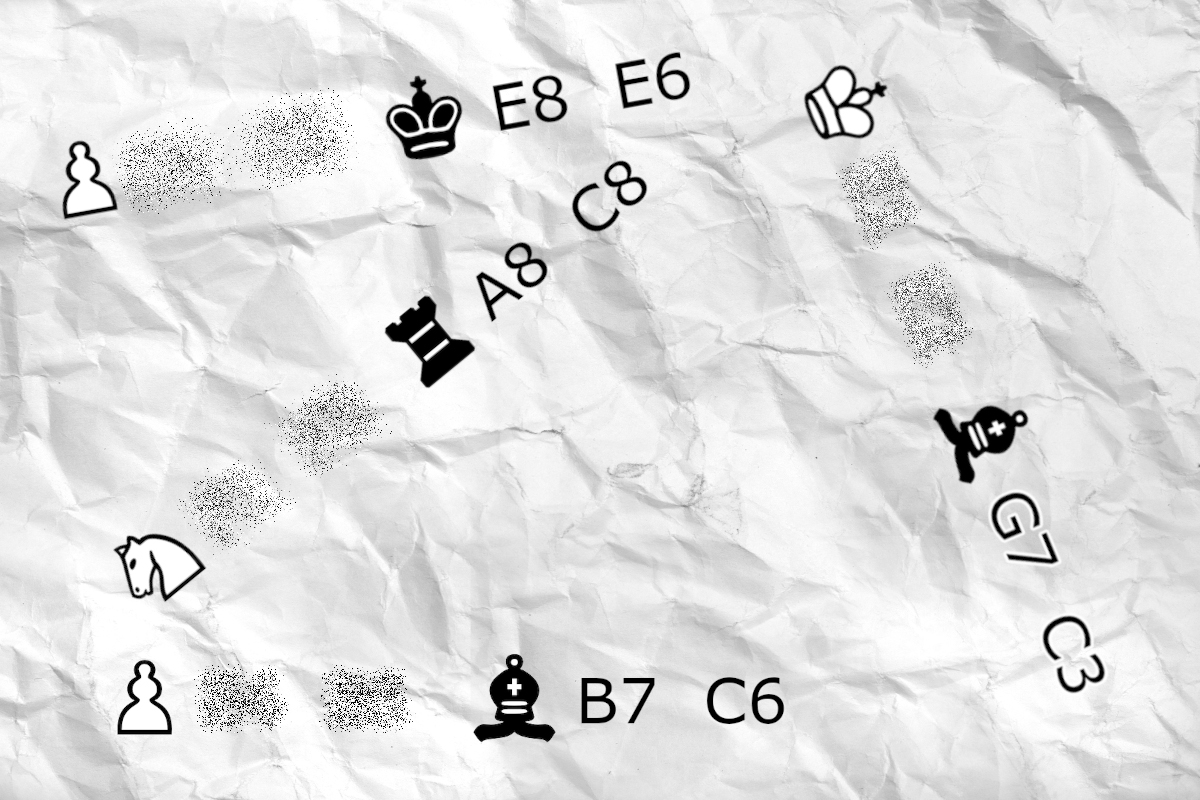
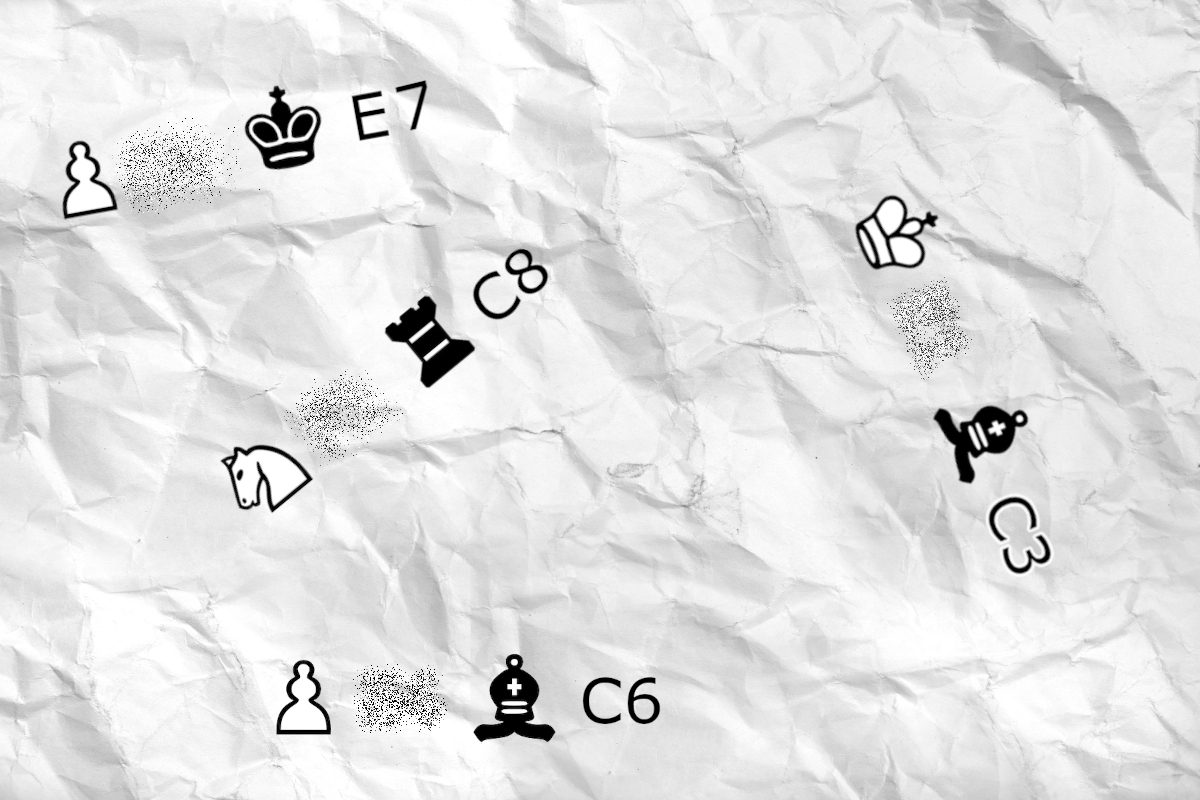
show movement lists - wip

diff --git a/src/components/puzzle-2/Chess-Movements-Confirm.spec.js b/src/components/puzzle-2/Chess-Movements-Confirm.spec.js
@@ -6,45 +6,69 @@ import { INITIAL_PIECES_BUILDER, PIECES } from './chess-constants';
 
 const THE_CELL = (row, col) => `[data-test-id=cell-${row}-${col}]`;
 
-const THE_CELL_ORIGIN = THE_CELL(0, 3);
-const THE_CELL_TARGET = THE_CELL(2, 3);
-const ANOTHER_CELL_ORIGIN = THE_CELL(0,0);
+const THE_CELL_ORIGIN = THE_CELL(0, 0);
+const THE_CELL_TARGET = THE_CELL(0, 2);
+const ANOTHER_CELL_ORIGIN = THE_CELL(0,3);
+const LOCATION_ORIGIN = '0-0';
+const LOCATION_TARGET = '0-2';
 
 const MOVEMENT_CONFIRM_ALERT = '[data-test-id=movement-confirm-alert]';
 const MOVEMENT_CONFIRM_BTN_NO = '[data-test-id=movement-confirm-alert-btn-no]';
 const MOVEMENT_CONFIRM_BTN_YES = '[data-test-id=movement-confirm-alert-btn-yes]';
 
-const THE_MOVED_PIECE = 'piece-dn';
+const THE_MOVED_PIECE = PIECES.BLACK_TOWER;
+const THE_MOVED_PIECE_CLASS = `piece-${THE_MOVED_PIECE}`;
+
+const MOVEMENT_LIST_EACH = '[data-test-id=chess-movement]';
 
 const clickButton = async (component, selector) => {
   component.find(selector).trigger('click');
   await component.vm.$nextTick();
 }
-describe('Chess Movements can be confirmed', () => {
-  it('does not show movement-confirm-alert when it starts', () => {
-    givenPlayerNumber(2);
-    givenFirestore({
-      '/': { turn: 2 },
-      '/puzzle-status/puzzle-2/pieces-location/current': INITIAL_PIECES_BUILDER.build()
+describe('Chess Movements are executed', () => {
+  describe('when initialized', () => {
+    it('does not show movement-confirm-alert when it starts', () => {
+      const chess = mount(Chess);
+
+      expect(chess.find(MOVEMENT_CONFIRM_ALERT).exists()).toBeFalsy();
     });
+    it('does not show any movement in the movement list', () => {
+      const chess = mount(Chess);
 
-    const chess = mount(Chess);
-
-    expect(chess.find(MOVEMENT_CONFIRM_ALERT).exists()).toBeFalsy();
+      expect(chess.findAll(MOVEMENT_LIST_EACH).length).toBe(0);
+    });
   });
 
-  it('shows the confirm movement alert when a movement is executed', async () => {
-    givenPlayerNumber(2);
-    givenFirestore({
-      '/': { turn: 2 },
-      '/puzzle-status/puzzle-2/pieces-location/current': INITIAL_PIECES_BUILDER.build()
+  describe('when a movement is executed', () => {
+    it('shows the confirm movement alert when a movement is executed', async () => {
+      givenPlayerNumber(2);
+      givenFirestore({
+        '/': { turn: 2 },
+        '/puzzle-status/puzzle-2/pieces-location/current': INITIAL_PIECES_BUILDER.build()
+      });
+      const chess = mount(Chess);
+      await clickButton(chess, THE_CELL_ORIGIN);
+
+      await clickButton(chess, THE_CELL_TARGET);
+
+      expect(chess.find(MOVEMENT_CONFIRM_ALERT).exists()).toBeTruthy();
     });
-    const chess = mount(Chess);
-    await clickButton(chess, THE_CELL_ORIGIN);
+    it('shows the movement in the movement list', async () => {
+      givenPlayerNumber(2);
+      givenFirestore({
+        '/': { turn: 2 },
+        '/puzzle-status/puzzle-2/pieces-location/current': INITIAL_PIECES_BUILDER.build()
+      });
+      const chess = mount(Chess);
+      await clickButton(chess, THE_CELL_ORIGIN);
 
-    await clickButton(chess, THE_CELL_TARGET);
+      await clickButton(chess, THE_CELL_TARGET);
 
-    expect(chess.find(MOVEMENT_CONFIRM_ALERT).exists()).toBeTruthy();
+      expect(chess.findAll(MOVEMENT_LIST_EACH).length).toBe(1);
+      expect(chess.find('[data-test-id=chess-movement-0-left-piece]').exists()).toBeTruthy();
+      expect(chess.find('[data-test-id=chess-movement-0-left-piece]').classes().indexOf(THE_MOVED_PIECE_CLASS)).toBeGreaterThanOrEqual(0);
+      expect(chess.find('[data-test-id=chess-movement-0-left-text]').text()).toBe('A8 C8');
+    });
   });
 
   describe('when NO is selected', () => {
@@ -69,8 +93,12 @@ describe('Chess Movements can be confirmed', () => {
     });
 
     it('undos the movement', async () => {
-      expect(chess.find(THE_CELL_ORIGIN).classes().indexOf(THE_MOVED_PIECE)).toBeGreaterThanOrEqual(0);
-      expect(chess.find(THE_CELL_TARGET).classes().indexOf(THE_MOVED_PIECE)).toBe(-1);
+      expect(chess.find(THE_CELL_ORIGIN).classes().indexOf(THE_MOVED_PIECE_CLASS)).toBeGreaterThanOrEqual(0);
+      expect(chess.find(THE_CELL_TARGET).classes().indexOf(THE_MOVED_PIECE_CLASS)).toBe(-1);
+    });
+
+    it('removes the movement from the list', async () => {
+      expect(chess.findAll(MOVEMENT_LIST_EACH).length).toBe(0);
     });
 
     it('get ready for the next movement', async () => {
@@ -103,13 +131,13 @@ describe('Chess Movements can be confirmed', () => {
     });
 
     it('sets the movement', async () => {
-      expect(chess.find(THE_CELL_TARGET).classes().indexOf(THE_MOVED_PIECE)).toBeGreaterThanOrEqual(0);
-      expect(chess.find(THE_CELL_ORIGIN).classes().indexOf(THE_MOVED_PIECE)).toBe(-1);
+      expect(chess.find(THE_CELL_TARGET).classes().indexOf(THE_MOVED_PIECE_CLASS)).toBeGreaterThanOrEqual(0);
+      expect(chess.find(THE_CELL_ORIGIN).classes().indexOf(THE_MOVED_PIECE_CLASS)).toBe(-1);
     });
 
     it('persists the movement', async () => {
-      expect(getUpdatedField(chess, 'piecesLocation', '0-3')).toBeNull();
-      expect(getUpdatedField(chess, 'piecesLocation', '2-3')).toBe(PIECES.BLACK_QUEEN);
+      expect(getUpdatedField(chess, 'piecesLocation', LOCATION_ORIGIN)).toBeNull();
+      expect(getUpdatedField(chess, 'piecesLocation', LOCATION_TARGET)).toBe(THE_MOVED_PIECE);
     });
 
     it('get ready for the next movement', async () => {

diff --git a/src/components/puzzle-2/ChessMovementList.vue b/src/components/puzzle-2/ChessMovementList.vue
@@ -1,8 +1,13 @@
 <template>
   <ul class="chess-movements-list">
-    <li><span class="movement-piece piece-ab"></span> <span class="movement-cells white">A3 B2</span> <span
-        class="movement-separator"></span> <span class="movement-piece piece-an"></span> <span
-        class="movement-cells black">A3 B2</span></li>
+    <li v-for="movement in movements" :key="JSON.stringify(movement)" data-test-id="chess-movement">
+      <span data-test-id="chess-movement-0-left-piece" :class="classesForMovementPiece(movement)"></span>
+      <span data-test-id="chess-movement-0-left-text" class="movement-cells white">{{ textForMovement(movement) }}</span>
+      <span class="movement-separator"></span>
+    </li>
+    <!--<li data-test-id="chess-movement"><span data-test-id="chess-movement-0-left-piece" class="movement-piece piece-ab"></span> <span  data-test-id="chess-movement-0-left-text" class="movement-cells white">A3 B2</span> <span
+        class="movement-separator"></span> <span data-test-id="chess-movement-0-right-piece"  class="movement-piece piece-an"></span> <span
+        class="movement-cells black" data-test-id="chess-movement-0-right-text">A3 B2</span></li>
     <li><span class="movement-piece piece-ab"></span> <span class="movement-cells black">A3 B2</span> <span
         class="movement-separator"></span> <span class="movement-piece piece-pn"></span> <span
         class="movement-cells white">A3 B2</span></li>
@@ -15,6 +20,7 @@
     <li><span class="movement-piece piece-ab"></span> <span class="movement-cells white">A3 B2</span> <span
         class="movement-separator"></span> <span class="movement-piece piece-an"></span> <span
         class="movement-cells black">A3 B2</span></li>
+        -->
   </ul>
 </template>
 <style>
@@ -64,7 +70,24 @@ ul.chess-movements-list {
 }
 </style>
 <script>
+
+const COL_NAMES = ['A', 'B', 'C', 'D', 'E', 'F', 'G', 'H'];
+const ROW_NAMES = ['8', '7', '6', '5', '4', '3', '2', '1'];
+const textForRow = (row) => ROW_NAMES[row];
+const textForCol = (col) => COL_NAMES[col];
+const textForCell = (cell) => `${textForCol(cell.col)}${textForRow(cell.row)}`;
+
 export default {
-  name: 'ChessMovementList'
-}
+  name: 'ChessMovementList',
+  props: {
+    movements: {
+      type: Array,
+      default: () => []
+    }
+  },
+  methods: {
+    classesForMovementPiece: (movement) => ['movement-piece', `piece-${movement.piece}`],
+    textForMovement: (movement) => `${textForCell(movement.cellOrigin)} ${textForCell(movement.cellTarget)}`
+  },
+};
 </script>

diff --git a/src/components/puzzle-2/Chess.vue b/src/components/puzzle-2/Chess.vue
@@ -8,7 +8,7 @@
                    @clicked-cell="clickCell"/>
     </div>
     <div class="chess-movements">
-      <chess-movement-list />
+      <chess-movement-list :movements="movements" />
       <chess-movement-confirm-alert v-if="showConfirmMovement" @clicked-no="clickConfirmMovementNo()" @clicked-yes="clickConfirmMovementYes()"/>
     </div>
   </div>
@@ -88,7 +88,7 @@
 }
 </style>
 <script>
-import { POSSIBLE_MOVEMENTS } from './chess-constants';
+import { INITIAL_PIECES_BUILDER, POSSIBLE_MOVEMENTS } from './chess-constants';
 import GetPlayerNumber from '../../lib/get-num-player';
 import OverlayTurn from '../overlay-turn/OverlayTurn';
 import ChessMovementConfirmAlert from './ChessMovementConfirmAlert';
@@ -120,7 +120,8 @@ export default {
       cellOrigin: null,
       cellTarget: null,
       globalStatus: { loaded: false },
-      showConfirmMovement: false
+      showConfirmMovement: false,
+      movements: []
     }
   },
   firestore() {
@@ -128,9 +129,19 @@ export default {
       piecesLocation: firebaseUtil.doc('/puzzle-status/puzzle-2/pieces-location/current'),
     }
   },
+  mounted() {
+    //Temporary hack
+    if (window.location.href.indexOf('?RESETCHESS')>=0) {
+      this.$firestoreRefs.piecesLocation.set(INITIAL_PIECES_BUILDER.build());
+    }
+  },
   methods: {
     clickCell({ clickedRow, clickedCol }) {
       if (this.cellOrigin && canMove(this.cellOrigin, { clickedRow, clickedCol })) {
+        this.movements.push({
+          piece: this.getPiece(this.cellOrigin.clickedRow, this.cellOrigin.clickedCol),
+          cellOrigin: { row: this.cellOrigin.clickedRow, col: this.cellOrigin.clickedCol } ,
+          cellTarget: { row: clickedRow, col: clickedCol }});
         this.movePiece(this.cellOrigin.clickedRow, this.cellOrigin.clickedCol, clickedRow, clickedCol);
         this.showConfirmMovement = true;
         this.cellTarget = { clickedRow, clickedCol };
@@ -141,6 +152,7 @@ export default {
     clickConfirmMovementNo() {
       this.movePiece(this.cellTarget.clickedRow, this.cellTarget.clickedCol, this.cellOrigin.clickedRow, this.cellOrigin.clickedCol);
       this.resetMovement();
+      this.movements.pop();
     },
     clickConfirmMovementYes() {
       this.resetMovement();
@@ -159,6 +171,9 @@ export default {
     },
     existsPiece(clickedRow, clickedCol) {
       return this.piecesLocation[`${clickedRow}-${clickedCol}`] !== undefined;
+    },
+    getPiece(row, col) {
+      return this.piecesLocation[`${row}-${col}`];
     }
   }
 }

diff --git a/src/components/puzzle-2/chess-constants.js b/src/components/puzzle-2/chess-constants.js
@@ -22,12 +22,12 @@ const INITIAL_PIECES_BUILDER = {
     '1-6': PIECES.BLACK_BISHOP,
     '3-0': PIECES.BLACK_PAWN,
     '3-3': PIECES.BLACK_PAWN,
-    '4-4': PIECES.WHITE_PAWN,
+    '5-4': PIECES.WHITE_PAWN,
     '6-0': PIECES.WHITE_TOWER,
     '6-2': PIECES.WHITE_PAWN,
     '7-2': PIECES.WHITE_BISHOP,
     '7-4': PIECES.WHITE_KING,
-    '7-5': PIECES.WHITE_HORSE
+    '7-6': PIECES.WHITE_HORSE
   })
 };
 
@@ -39,12 +39,12 @@ const POSSIBLE_MOVEMENTS = {
   '1-6': [aCell(0, 5), aCell(0,7), aCell(2,7), aCell(2,5), aCell(3,4), aCell(4,3), aCell(5,2), aCell(6,1), aCell(7,0)],
   '3-0': [aCell(4, 0)],
   '3-3': [aCell(4, 3)],
-  '4-4': [aCell(3, 3), aCell(3, 4)],
-  '6-0': [aCell(5, 0),aCell(4, 0),aCell(6, 1)],
+  '5-4': [ aCell(4, 4)],
+  '6-0': [aCell(7, 0), aCell(5, 0),aCell(4, 0),aCell(6, 1)],
   '6-2': [aCell(5, 2),aCell(4, 2)],
-  '7-2': [aCell(6, 1),aCell(5, 0),aCell(6, 3),aCell(5, 4),aCell(4, 5), aCell(3, 6),aCell(2, 7)],
-  '7-4': [aCell(7, 3),aCell(6, 4)],
-  '7-5': [aCell(6, 3),aCell(5, 4),aCell(5, 6),aCell(6, 7)]
+  '7-2': [aCell(6, 1),aCell(5, 0),aCell(6, 3)],
+  '7-4': [aCell(7, 3),aCell(6, 3), aCell(6, 4), aCell(6, 5), aCell(7, 5)],
+  '7-6': [aCell(6, 4),aCell(5, 5),aCell(5, 7)]
 
 
 }

diff --git a/src/components/puzzle-2/Chess-Movements.spec.js b/src/components/puzzle-2/Chess-Movements.spec.js
@@ -22,7 +22,7 @@ describe('Chess Movements', () => {
     it.each`
     playerNumber | row  | col  | expectedMovements | pieceMoving
     ${1}         | ${0} | ${0} | ${0}              | ${'blacks'}
-    ${1}         | ${6} | ${0} | ${3}              | ${'whites'}
+    ${1}         | ${6} | ${0} | ${4}              | ${'whites'}
     ${2}         | ${0} | ${0} | ${4}              | ${'blacks'}
     ${2}         | ${6} | ${0} | ${0}              | ${'whites'}
     `('shows possible movements: $expectedMovements, when player $playerNumber moving $pieceMoving', async ( { playerNumber, row, col, expectedMovements }) => {

diff --git a/src/components/puzzle-2/Chess.spec.js b/src/components/puzzle-2/Chess.spec.js
@@ -26,12 +26,12 @@ describe('Chess', () => {
   ${1}  | ${6}   | ${'an'}
   ${3}  | ${0}   | ${'pn'}
   ${3}  | ${3}   | ${'pn'}
-  ${4}  | ${4}   | ${'pb'}
+  ${5}  | ${4}   | ${'pb'}
   ${6}  | ${0}   | ${'tb'}
   ${6}  | ${2}   | ${'pb'}
   ${7}  | ${2}   | ${'ab'}
   ${7}  | ${4}   | ${'rb'}
-  ${7}  | ${5}   | ${'cb'}
+  ${7}  | ${6}   | ${'cb'}
 
   `('shows pieces on each initial stage - $row / $col - $piece', async ( { row, col, piece }) => {
     givenFirestore({
